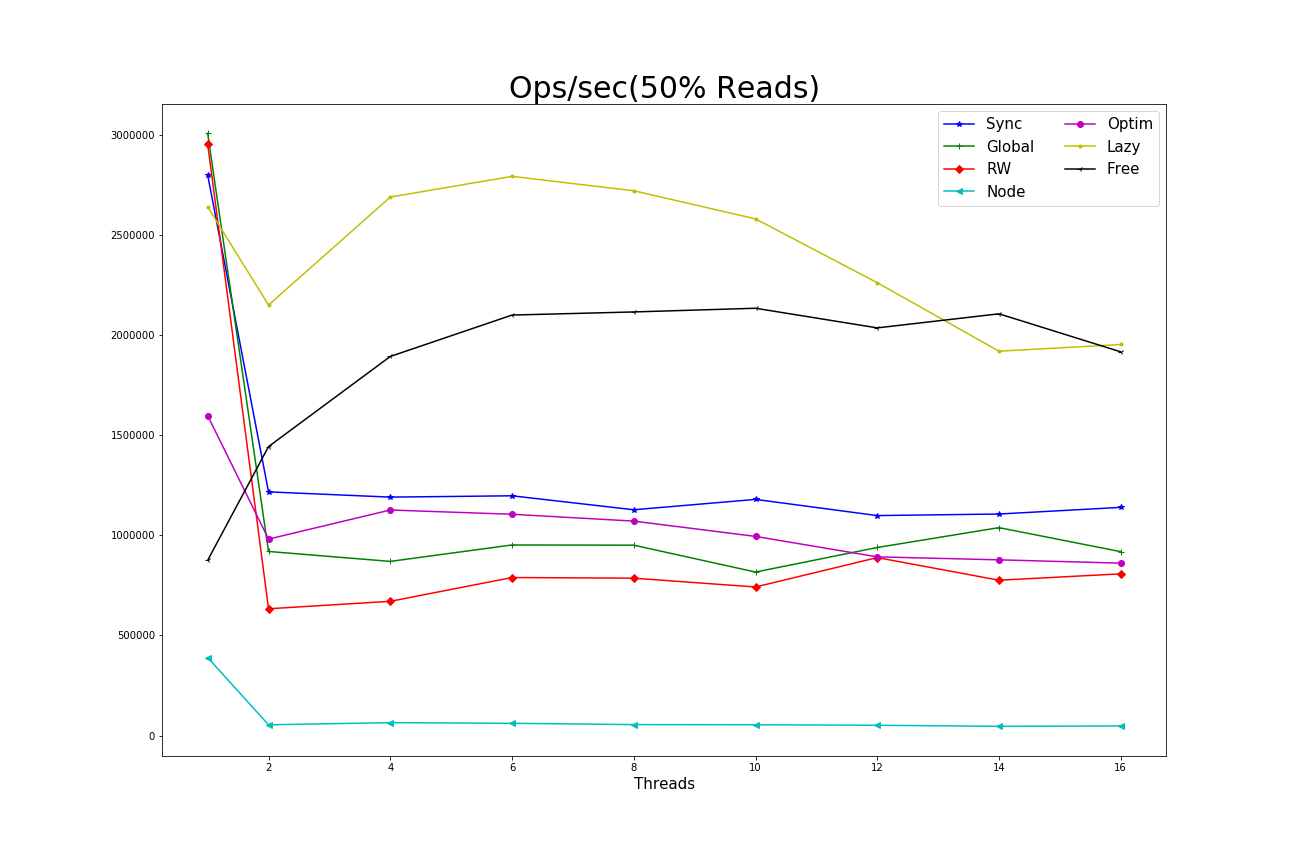
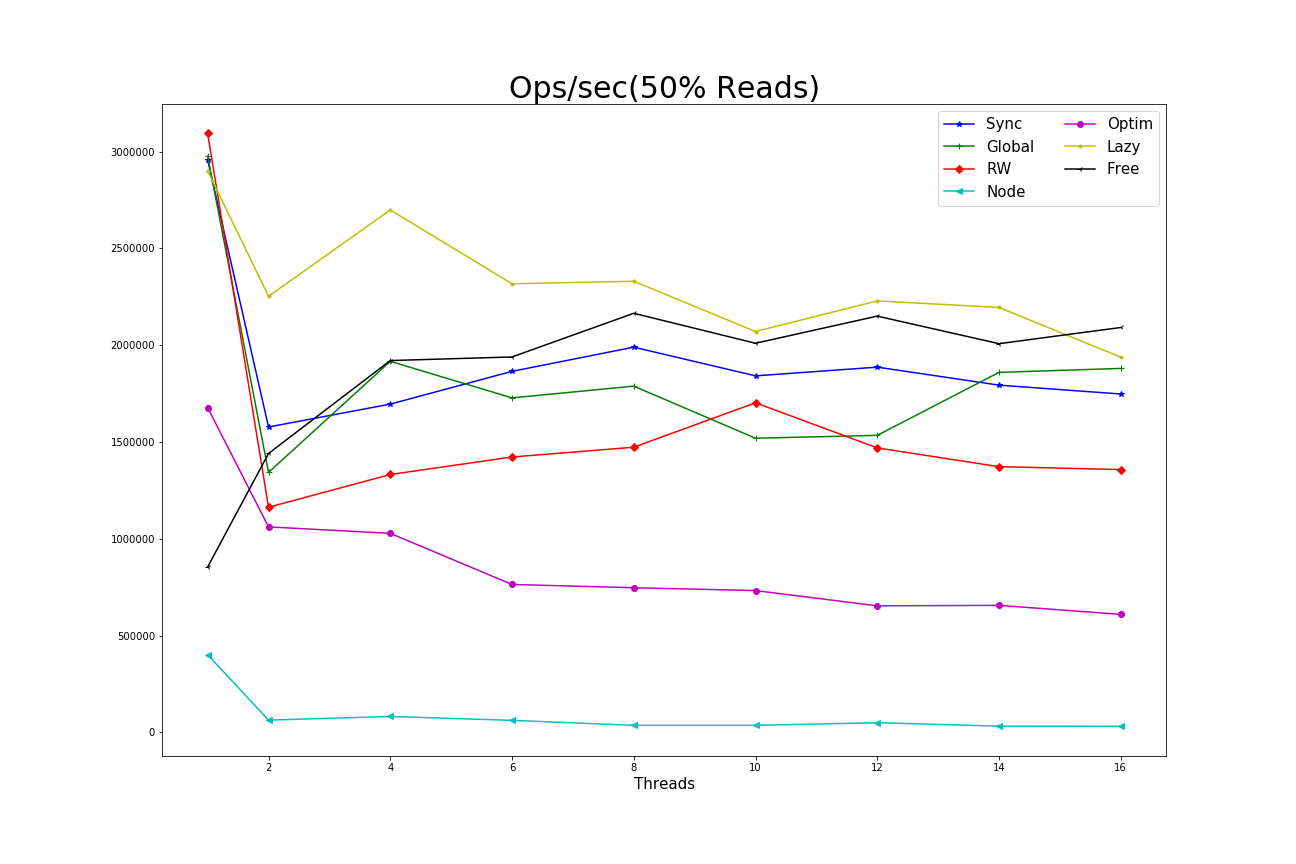
results graphics updated

diff --git a/Concurrent_IntSet/scripts/graph.py b/Concurrent_IntSet/scripts/graph.py
@@ -37,14 +37,18 @@ matLazy = np.loadtxt('../results/results_LazyPerNodeLock.txt') * 1000
 matFree = np.loadtxt('../results/results_LockFree.txt') * 1000
 
 
-contains_Sync = split_contains_ratio(matSync,3)
-contains_GL = split_contains_ratio(matGL,3)
-contains_RWL = split_contains_ratio(matRWL,3)
-contains_PNL = split_contains_ratio(matPNL,3)
-contains_OL = split_contains_ratio(matOL,3)
-contains_Lazy = split_contains_ratio(matLazy,3)
-contains_Free = split_contains_ratio(matFree,3)
+contains_Sync = split_contains_ratio(matSync,4)
+contains_GL = split_contains_ratio(matGL,4)
+contains_RWL = split_contains_ratio(matRWL,4)
+contains_PNL = split_contains_ratio(matPNL,4)
+contains_OL = split_contains_ratio(matOL,4)
+contains_Lazy = split_contains_ratio(matLazy,4)
+contains_Free = split_contains_ratio(matFree,4)
 threads = [1,2,4,6,8,10,12,14,16]
+
+
+plot_contains_ratio( contains_Sync[3], contains_GL[3], contains_RWL[3], contains_PNL[3], contains_OL[3], 
+     contains_Lazy[3], contains_Free[3],threads, "Ops/sec(99% Reads)", "Threads", "../results/Ops_sec_99_reads")
 
 plot_contains_ratio( contains_Sync[2], contains_GL[2], contains_RWL[2], contains_PNL[2], contains_OL[2], 
      contains_Lazy[2], contains_Free[2],threads, "Ops/sec(10% Reads)", "Threads", "../results/Ops_sec_10_reads")
@@ -67,17 +71,17 @@ matLazy = np.loadtxt('../results/results_reads_LazyPerNodeLock.txt')
 matFree = np.loadtxt('../results/results_reads_LockFree.txt')
 
 
-contains_Sync = split_contains_ratio(matSync,10)
-contains_GL = split_contains_ratio(matGL,10)
-contains_RWL = split_contains_ratio(matRWL,10)
-contains_PNL = split_contains_ratio(matPNL,10)
-contains_OL = split_contains_ratio(matOL,10)
-contains_Lazy = split_contains_ratio(matLazy,10)
-contains_Free = split_contains_ratio(matFree,10)
+contains_Sync = split_contains_ratio(matSync,11)
+contains_GL = split_contains_ratio(matGL,11)
+contains_RWL = split_contains_ratio(matRWL,11)
+contains_PNL = split_contains_ratio(matPNL,11)
+contains_OL = split_contains_ratio(matOL,11)
+contains_Lazy = split_contains_ratio(matLazy,11)
+contains_Free = split_contains_ratio(matFree,11)
 
-
+contains_perc = [0,5,10,20,30,40,50,60,70,80,90]
 plot_contains_ratio(contains_Sync, contains_GL, contains_RWL, contains_PNL, contains_OL, 
-     contains_Lazy, contains_Free, range(0,100,10), "Ops/sec(32 Threads)", "% contains", "../results/Ops_sec_32_threads")
+     contains_Lazy, contains_Free, contains_perc, "Ops/sec(16 Threads)", "% contains", "../results/Ops_sec_16_threads")
 
 
 
